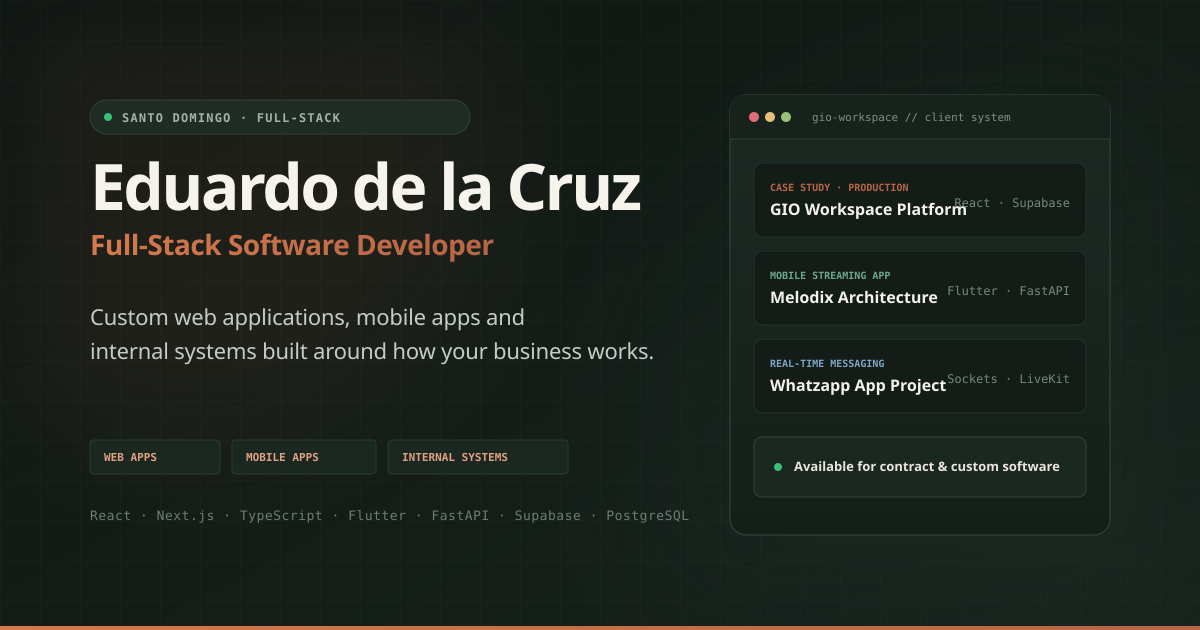
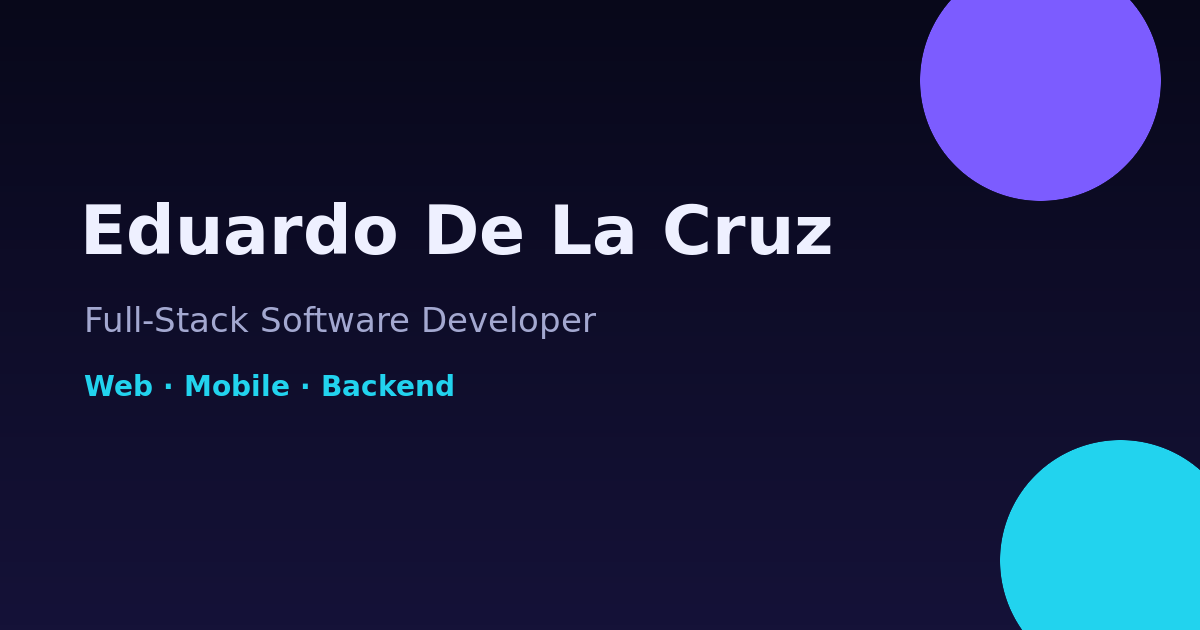
feat: update contact and SEO metadata

diff --git a/index.html b/index.html
@@ -2,113 +2,19 @@
 <html lang="en">
   <head>
     <meta charset="UTF-8" />
-    <meta name="viewport" content="width=device-width, initial-scale=1.0" />
-    
-    <!-- Primary SEO Meta Tags -->
-    <title>Eduardo de la Cruz — Custom Software for Businesses</title>
-    <meta
-      name="description"
-      content="Full-Stack Software Developer based in Santo Domingo. I build custom web applications, mobile apps and internal systems designed around how your business actually works."
-    />
-    <meta
-      name="keywords"
-      content="custom software, web applications, mobile apps, business management systems, full-stack software developer, Flutter, React, FastAPI, Santo Domingo, Dominican Republic"
-    />
-    <meta name="author" content="Eduardo de la Cruz" />
-    <meta name="robots" content="index, follow" />
-    <link rel="canonical" href="https://eduardodelacruz.dev/" />
-    <link rel="alternate" hreflang="en" href="https://eduardodelacruz.dev/" />
-    <link rel="alternate" hreflang="es" href="https://eduardodelacruz.dev/" />
-    <link rel="alternate" hreflang="x-default" href="https://eduardodelacruz.dev/" />
-
-    <!-- Open Graph / Facebook / WhatsApp / LinkedIn -->
+    <meta name="viewport" content="width=device-width, initial-scale=1, viewport-fit=cover" />
+    <meta name="theme-color" content="#08081A" />
+    <meta name="description" content="Eduardo De La Cruz — Full-Stack Software Developer building web, mobile and business software." />
+    <meta property="og:title" content="Eduardo De La Cruz — Full-Stack Software Developer" />
+    <meta property="og:description" content="Web, mobile and full-stack software projects by Eduardo De La Cruz." />
     <meta property="og:type" content="website" />
-    <meta property="og:url" content="https://eduardodelacruz.dev/" />
-    <meta property="og:title" content="Eduardo de la Cruz — Custom Software for Businesses" />
-    <meta
-      property="og:description"
-      content="Web applications, mobile apps and internal systems designed around how your business actually works. Explore featured systems and architecture."
-    />
-    <meta property="og:image" content="https://eduardodelacruz.dev/og-image.jpg" />
-    <meta property="og:image:secure_url" content="https://eduardodelacruz.dev/og-image.jpg" />
-    <meta property="og:image:type" content="image/jpeg" />
-    <meta property="og:image:width" content="1200" />
-    <meta property="og:image:height" content="630" />
-    <meta property="og:site_name" content="Eduardo de la Cruz Portfolio" />
-    <meta property="og:locale" content="en_US" />
-    <meta property="og:locale:alternate" content="es_DO" />
-
-    <!-- Twitter / X Cards -->
-    <meta name="twitter:card" content="summary_large_image" />
-    <meta name="twitter:url" content="https://eduardodelacruz.dev/" />
-    <meta name="twitter:title" content="Eduardo de la Cruz — Custom Software for Businesses" />
-    <meta
-      name="twitter:description"
-      content="Web applications, mobile apps and internal systems designed around how your business actually works."
-    />
-    <meta name="twitter:image" content="https://eduardodelacruz.dev/og-image.jpg" />
-
-    <!-- Favicons -->
-    <link rel="icon" type="image/svg+xml" href="/favicon.svg" />
-    <link rel="icon" type="image/png" sizes="32x32" href="/favicon-32x32.png" />
-    <link rel="apple-touch-icon" sizes="180x180" href="/apple-touch-icon.png" />
-    <meta name="theme-color" content="#121915" />
-
-    <!-- Fonts: Plus Jakarta Sans, DM Mono, Manrope, Playfair Display -->
+    <meta property="og:image" content="/og-image.png" />
+    <title>Eduardo De La Cruz | Full-Stack & Flutter Developer</title>
     <link rel="preconnect" href="https://fonts.googleapis.com" />
     <link rel="preconnect" href="https://fonts.gstatic.com" crossorigin />
-    <link
-      href="https://fonts.googleapis.com/css2?family=DM+Mono:ital,wght@0,400;0,500;1,400&family=Manrope:wght@400;500;600;700;800&family=Plus+Jakarta+Sans:wght@400;500;600;700;800&family=Playfair+Display:ital,wght@0,600;1,600&display=swap"
-      rel="stylesheet"
-    />
-
-    <!-- Structured Data (JSON-LD) for Search Engines -->
-    <script type="application/ld+json">
-      {
-        "@context": "https://schema.org",
-        "@graph": [
-          {
-            "@type": "Person",
-            "@id": "https://eduardodelacruz.dev/#person",
-            "name": "Eduardo de la Cruz",
-            "jobTitle": "Full-Stack Software Developer",
-            "url": "https://eduardodelacruz.dev",
-            "sameAs": [
-              "https://github.com/eduardolluis",
-              "https://www.linkedin.com/in/eduardo-de-la-cruz-b6171837a/"
-            ],
-            "address": {
-              "@type": "PostalAddress",
-              "addressLocality": "Santo Domingo",
-              "addressCountry": "DO"
-            },
-            "knowsAbout": [
-              "Custom Business Software",
-              "Web Application Development",
-              "Mobile Application Development",
-              "Flutter",
-              "React",
-              "TypeScript",
-              "FastAPI",
-              "PostgreSQL",
-              "Supabase"
-            ]
-          },
-          {
-            "@type": "ProfessionalService",
-            "@id": "https://eduardodelacruz.dev/#service",
-            "name": "Eduardo de la Cruz — Custom Software Development",
-            "url": "https://eduardodelacruz.dev",
-            "description": "Custom web applications, mobile apps and internal management systems built around your business workflow.",
-            "provider": {
-              "@id": "https://eduardodelacruz.dev/#person"
-            },
-            "areaServed": "Global",
-            "priceRange": "$$"
-          }
-        ]
-      }
-    </script>
+    <link href="https://fonts.googleapis.com/css2?family=Manrope:wght@400;500;600;700&family=Unbounded:wght@500;700;800&display=swap" rel="stylesheet" />
+    <link rel="icon" href="/favicon.svg" type="image/svg+xml" />
+    <script src="https://cdnjs.cloudflare.com/ajax/libs/three.js/r128/three.min.js"></script>
   </head>
   <body>
     <div id="root"></div>

diff --git a/api/contact.ts b/api/contact.ts
@@ -23,6 +23,14 @@ interface ResponseLike {
 // In-memory rate limiting map: IP -> timestamp
 const ipRateLimitMap = new Map<string, number>();
 
+const escapeHtml = (value: string) =>
+  value
+    .replaceAll("&", "&amp;")
+    .replaceAll("<", "&lt;")
+    .replaceAll(">", "&gt;")
+    .replaceAll('"', "&quot;")
+    .replaceAll("'", "&#039;");
+
 // Periodic cleanup of stale rate-limit entries
 function cleanupRateLimitMap() {
   const cutoff = Date.now() - 5 * 60 * 1000;
@@ -122,9 +130,16 @@ Message:
 ${message}
 
 ---
-Sent via Eduardo de la Cruz Portfolio Contact Form
+Sent via Eduardo De La Cruz Portfolio Contact Form
 Client IP: ${clientIp}
 Timestamp: ${new Date().toISOString()}`;
+
+    const safeName = escapeHtml(name);
+    const safeEmail = escapeHtml(email);
+    const safeCompany = escapeHtml(company || "—");
+    const safeNeed = escapeHtml(need || "—");
+    const safeBudget = escapeHtml(budget || "—");
+    const safeMessage = escapeHtml(message);
 
     const emailHtml = `
       <div style="font-family: -apple-system, BlinkMacSystemFont, 'Segoe UI', Roboto, sans-serif; max-width: 600px; margin: 0 auto; padding: 24px; color: #141f1a; border: 1px solid #dcded9; border-radius: 8px;">
@@ -134,28 +149,28 @@ Timestamp: ${new Date().toISOString()}`;
         <table style="width: 100%; border-collapse: collapse; margin: 20px 0;">
           <tr>
             <td style="padding: 8px 0; font-weight: bold; width: 140px; color: #6e7f77;">Client Name:</td>
-            <td style="padding: 8px 0; color: #141f1a;">${name}</td>
+            <td style="padding: 8px 0; color: #141f1a;">${safeName}</td>
           </tr>
           <tr>
             <td style="padding: 8px 0; font-weight: bold; color: #6e7f77;">Email Address:</td>
-            <td style="padding: 8px 0;"><a href="mailto:${email}" style="color: #b85d3b; text-decoration: none;">${email}</a></td>
+            <td style="padding: 8px 0;"><a href="mailto:${safeEmail}" style="color: #b85d3b; text-decoration: none;">${safeEmail}</a></td>
           </tr>
           <tr>
             <td style="padding: 8px 0; font-weight: bold; color: #6e7f77;">Company:</td>
-            <td style="padding: 8px 0; color: #141f1a;">${company || "—"}</td>
+            <td style="padding: 8px 0; color: #141f1a;">${safeCompany}</td>
           </tr>
           <tr>
             <td style="padding: 8px 0; font-weight: bold; color: #6e7f77;">Project Type:</td>
-            <td style="padding: 8px 0; color: #141f1a;">${need || "—"}</td>
+            <td style="padding: 8px 0; color: #141f1a;">${safeNeed}</td>
           </tr>
           <tr>
             <td style="padding: 8px 0; font-weight: bold; color: #6e7f77;">Budget Range:</td>
-            <td style="padding: 8px 0; color: #141f1a;">${budget || "—"}</td>
+            <td style="padding: 8px 0; color: #141f1a;">${safeBudget}</td>
           </tr>
         </table>
         <div style="background-color: #f7f6f2; padding: 16px; border-radius: 6px; border-left: 3px solid #b85d3b; margin: 20px 0;">
           <h4 style="margin: 0 0 8px 0; color: #141f1a; font-size: 14px;">Project Description:</h4>
-          <p style="margin: 0; white-space: pre-wrap; font-size: 14px; line-height: 1.6; color: #33423a;">${message}</p>
+          <p style="margin: 0; white-space: pre-wrap; font-size: 14px; line-height: 1.6; color: #33423a;">${safeMessage}</p>
         </div>
         <p style="font-size: 12px; color: #88998f; margin-top: 24px; border-top: 1px solid #e2e4df; padding-top: 12px;">
           Received on ${new Date().toUTCString()} · IP: ${clientIp}
